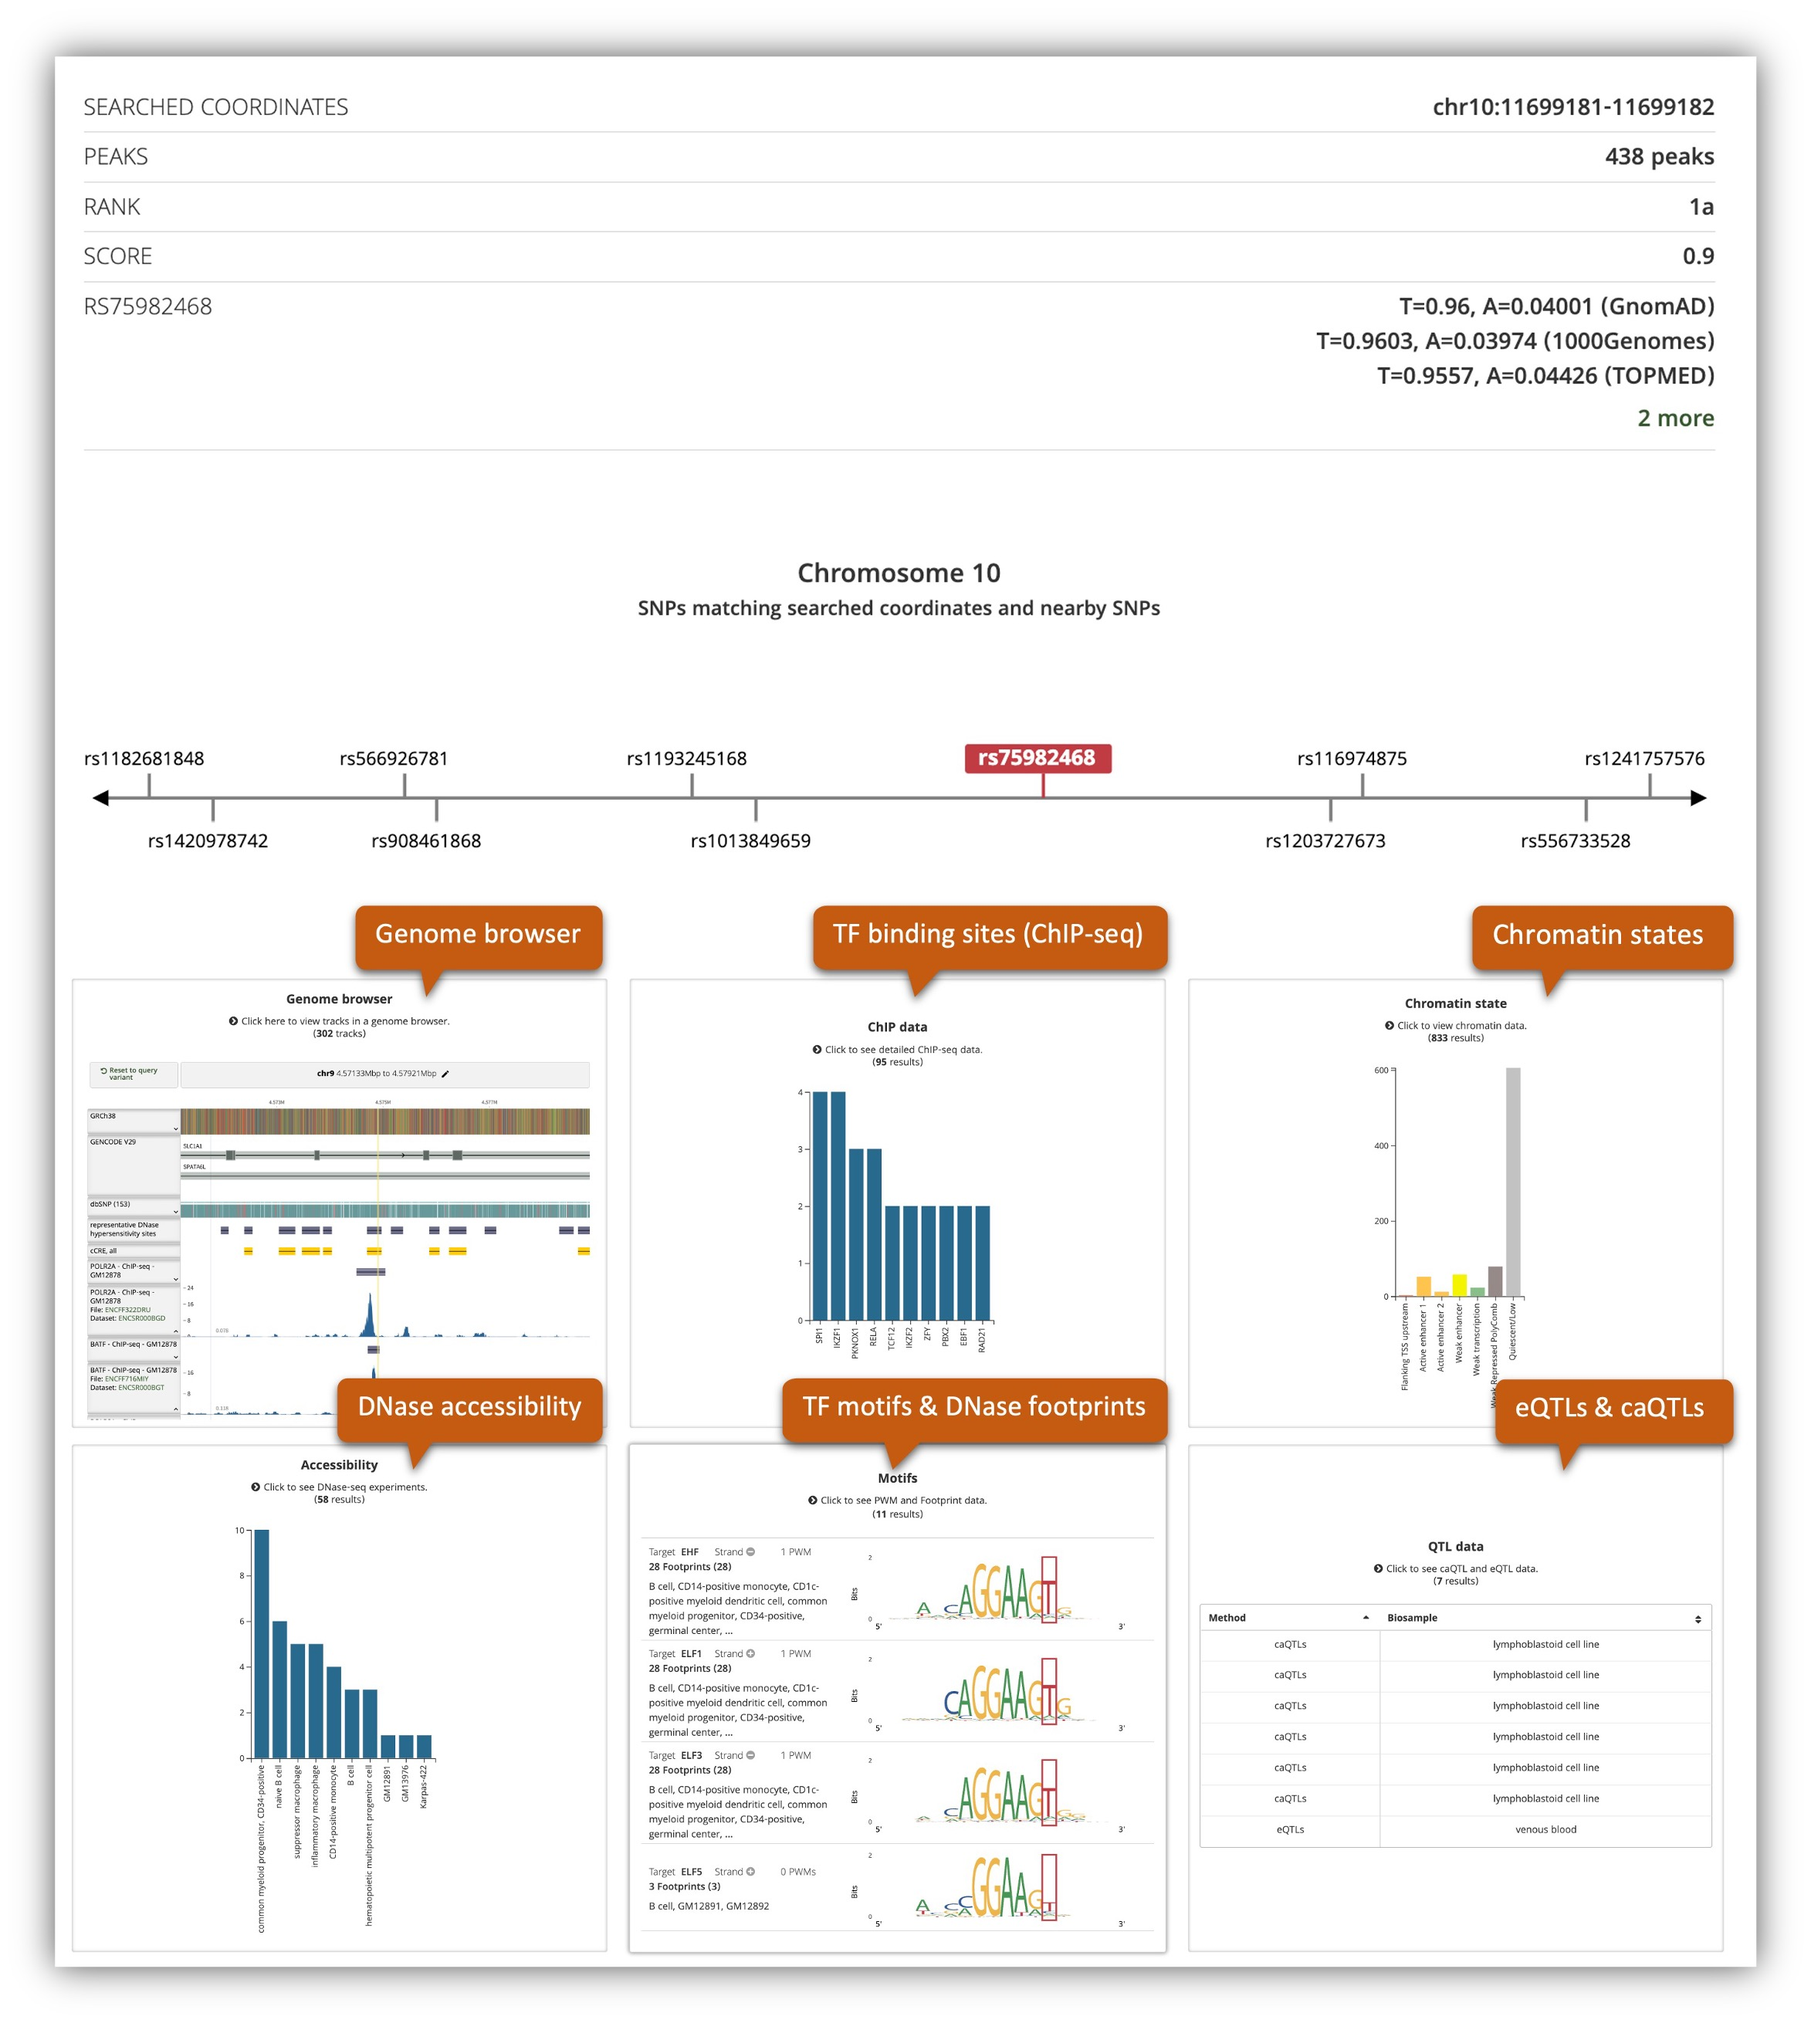
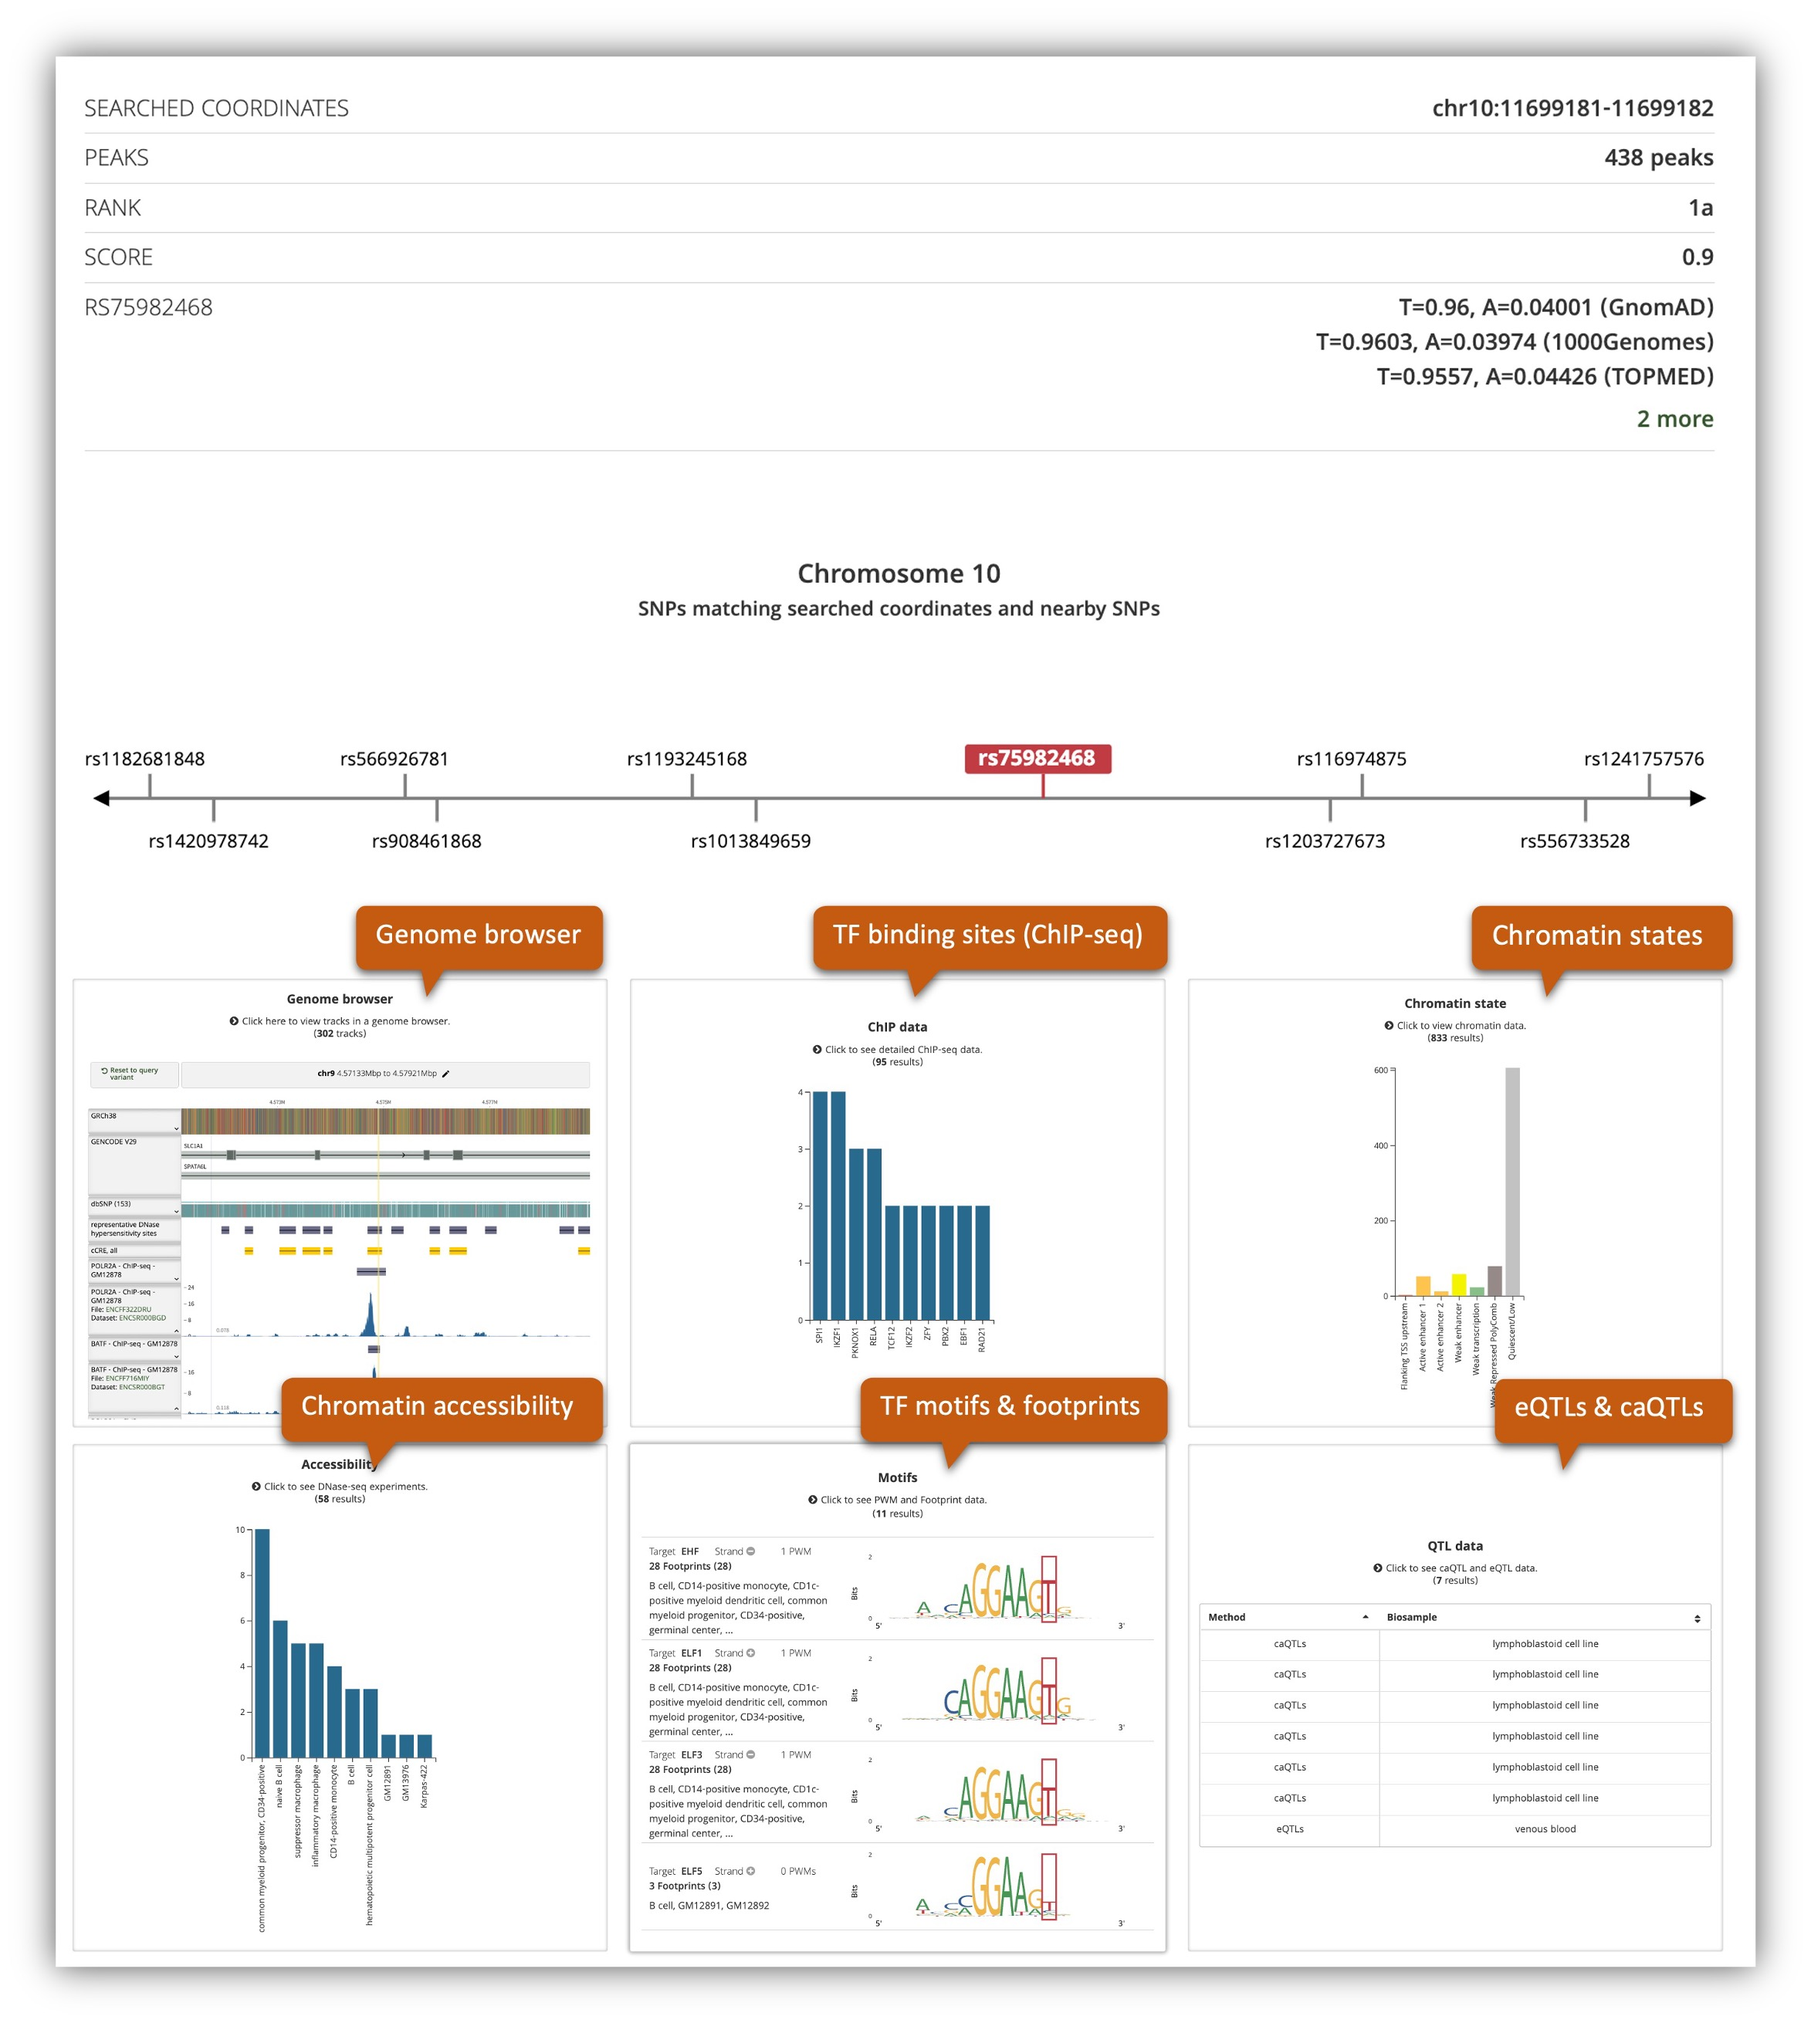
remove text DNase

diff --git a/src/encoded/static/components/regulome_help.js b/src/encoded/static/components/regulome_help.js
@@ -79,7 +79,7 @@ const RegulomeHelp = () => (
             <li><b>eQTLs & caQTLs (chromatin accessibility QTLs):</b> The tables in this section show the information of eQTL and caQTL studies where the query variant is identified to be associated with gene expression levels and chromatin accessibility. </li>
             <ul>
                 <li>The caQTL data comes from curated publications, viewable at <a href="https://www.encodeproject.org/report/?type=Publication&notes=*&field=%40id&field=title&field=identifiers&field=notes">ENCODE portal</a>.</li>
-                <li>The eQTL data comes from the <a href="https://pubmed.ncbi.nlm.nih.gov/32913098/">GTEx</a> project (<a href="https://www.gtexportal.org/home/datasets">GTEx_Analysis_v8_eQTL.tar</a>) and has also been uploaded on the <a href="https://www.encodeproject.org/search/?type=Annotation&internal_tags=RegulomeDB_2_1&annotation_type=eQTLs">ENCODE portal</a>.</li>
+                <li>The eQTL data comes from the <a href="https://pubmed.ncbi.nlm.nih.gov/32913098/">GTEx</a> project (<a href="https://www.gtexportal.org/home/datasets">source of GTEx_Analysis_v8_eQTL.tar file</a>) and has also been uploaded on the <a href="https://www.encodeproject.org/search/?type=Annotation&internal_tags=RegulomeDB_2_1&annotation_type=eQTLs">ENCODE portal</a>.</li>
                 <li>The corresponding ENCODE file ids and their corresponding dataset ids are also listed on the table and hyperlinked for further exploration.</li>
                 <li>The biosample information and population ethnicity information (when available)  are also listed on the caQTL table and correspond to the original biosample information used for that study in the publication.</li>
                 <li>Example: <a href="https://beta.regulomedb.org/regulome-search/?regions=chr10:11699181-11699182&genome=GRCh38/thumbnail=qtl">rs75982468</a> has both biosample and population information that comes from the publication listed here: <a href="https://www.encodeproject.org/publications/7be44d09-ae33-43af-9af2-dad1df6b0d1e/">PMID:30650056</a>.</li>
